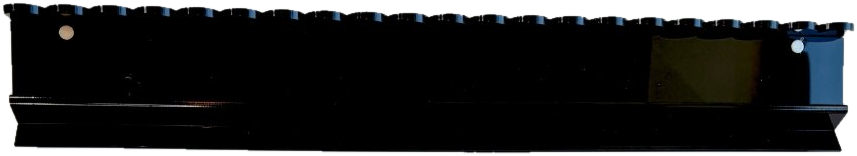
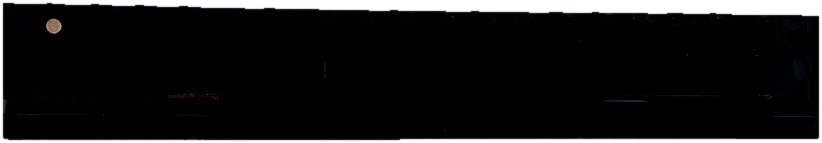
WIP: v114 rack re-cut in progress
Claude-Session: https://claude.ai/code/session_01U7RfeJEDwDLRZnhiPmiFwy

Changed region(s): [[0.0, 0.0, 1.0, 1.0], [0.7603, 0.2238, 0.882, 0.6713], [0.7299, 0.6993, 0.7908, 0.7273]]

diff --git a/builder/table_view/black_acrylic_nov02.py b/builder/table_view/black_acrylic_nov02.py
@@ -1,0 +1,28 @@
+"""Mahjong Black Acrylic Racks and Scallop Pushers (Bamlet's) Table cut, QA Nov 2 re-check: no toothy top, no dark patch,
+no blue end. Source: the brand's top-down photo of 4 black racks on white (racks-src/qa-nov02/bamlets_black_acrylic_brand.jpg);
+rack #2 is the cleanest (no reflection patch). Dark-pixel mask -> top/bottom edges smoothed per column -> squared ends ->
+glare/blue reflections painted from the nearest black (the left magnet dot is kept). Out: racks-src/qa-nov02/black.png"""
+import pathlib, numpy as np
+from PIL import Image, ImageFilter
+from scipy import ndimage
+D = pathlib.Path(__file__).resolve().parents[2] / 'assets/table-view/racks-src/qa-nov02'
+im = Image.open(D / 'bamlets_black_acrylic_brand.jpg').convert('RGB').crop((304, 140, 462, 1015)).rotate(-90, expand=True)
+a = np.asarray(im).astype(float); L = a.mean(2)
+m = ndimage.binary_closing(L < 120, iterations=2); lab, n = ndimage.label(m); sz = ndimage.sum(m, lab, range(1, n + 1))
+m = ndimage.binary_fill_holes(lab == (np.argmax(sz) + 1)); H, W = m.shape
+top = np.array([np.where(m[:, x])[0].min() if m[:, x].any() else H for x in range(W)], float)
+bot = np.array([np.where(m[:, x])[0].max() if m[:, x].any() else -1 for x in range(W)], float)
+c = m.sum(0); cs = np.where(c >= .85 * c.max())[0]; x0, x1 = cs.min() + 2, cs.max() - 2
+ts = ndimage.gaussian_filter1d(ndimage.median_filter(top, 11), 2); bs = ndimage.gaussian_filter1d(ndimage.median_filter(bot, 11), 2)
+yy = np.arange(H)[:, None]; m = (yy >= ts[None, :] + 1) & (yy <= bs[None, :]); m[:, :x0] = False; m[:, x1 + 1:] = False
+keep = np.zeros_like(m); lb, nb = ndimage.label((L > 45) & m)
+for i, sl in enumerate(ndimage.find_objects(lb)):
+    h, w = sl[0].stop - sl[0].start, sl[1].stop - sl[1].start
+    if 6 <= h <= 16 and 6 <= w <= 16 and abs(h - w) <= 3 and sl[1].start < W * .15: keep[sl] |= lb[sl] == i + 1
+bad = ndimage.binary_dilation(m & ((L > 45) | ((a[..., 2] - np.maximum(a[..., 0], a[..., 1]) > 5) & (L > 6))) & ~ndimage.binary_dilation(keep, iterations=1), iterations=1) & m
+good = m & ~bad  # every other pixel (glare, blue, and the soft edge just outside the rack) takes the colour of the nearest clean black pixel
+_, idx = ndimage.distance_transform_edt(~good, return_indices=True); rgb = a[..., :3][idx[0], idx[1]]
+rgb[(rgb[..., 2] - np.maximum(rgb[..., 0], rgb[..., 1]) > 5)] = np.median(a[good & (L < 30)], 0)  # last blue specks on the scalloped edge -> rack black
+al = np.asarray(Image.fromarray((m * 255).astype(np.uint8)).filter(ImageFilter.GaussianBlur(.6)))
+o = Image.fromarray(np.dstack([rgb, al]).astype(np.uint8), 'RGBA'); ys, xs = np.where(al > 20)
+o = o.crop((xs.min() - 2, ys.min() - 2, xs.max() + 3, ys.max() + 3)); o.thumbnail((1000, 1000)); o.save(D / 'black.png'); print('black acrylic', o.size, 'painted', int(bad.sum()))

diff --git a/builder/table_view/rack_fix_nov02b.py b/builder/table_view/rack_fix_nov02b.py
@@ -41,7 +41,7 @@ for n in ['Dusty Lilac', 'Indigo', 'Lagoon', 'Mulberry', 'Periwinkle', 'Pink', '
     hole = m & (a0[..., 3] < 128)  # holes in the brand cut (where the stick met the rack, magnet dots): colour from the nearest real pixel
     if hole.any(): _, idx = ndimage.distance_transform_edt(hole, return_indices=True); a[..., :3] = a0[..., :3][idx[0], idx[1]]
     a[..., 3] = 0; save(k, finish(a, m), 'pusher stick removed: rack-only crop (row/column coverage), holes filled + soft 0.6px edge')
-for n, f, meth in (('Mahjong Black Acrylic Racks and Scallop Pushers', 'black.png', 're-cut from the brand top-down photo (black on white, dark-pixel mask)'),
+for n, f, meth in (('Mahjong Black Acrylic Racks and Scallop Pushers', 'black.png', 're-cut from the brand top-down photo, cleanest of 4 racks (builder/table_view/black_acrylic_nov02.py: dark mask, smoothed edges, glare + blue painted out)'),
                    ('Bam Bird Boutique White Acrylic', 'bbwhite.png', 're-cut from the brand top-down photo (white on lavender) + squared ends')):
     save(byname[n], Image.open(os.path.join(CUT, f)).convert('RGBA'), meth)
 for n in ('My Fair Mahjong Clear', 'The Ultimate Rack - CRYSTAL CLEAR'):
